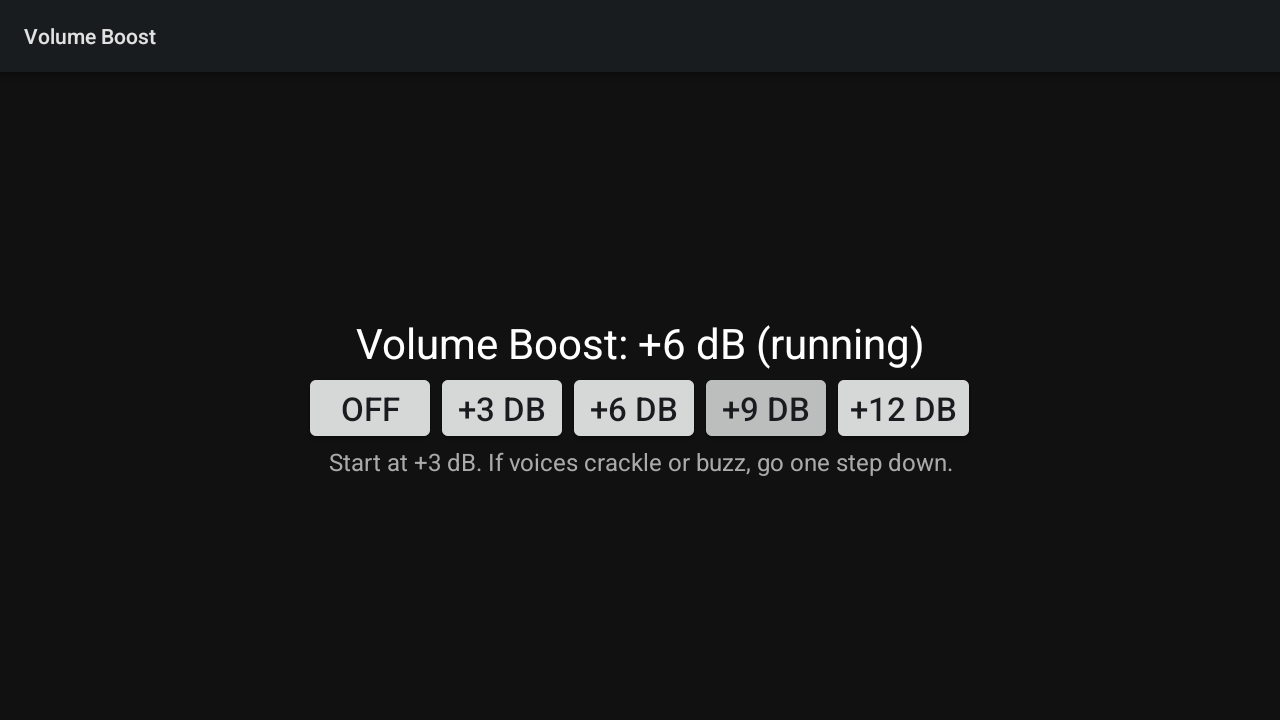
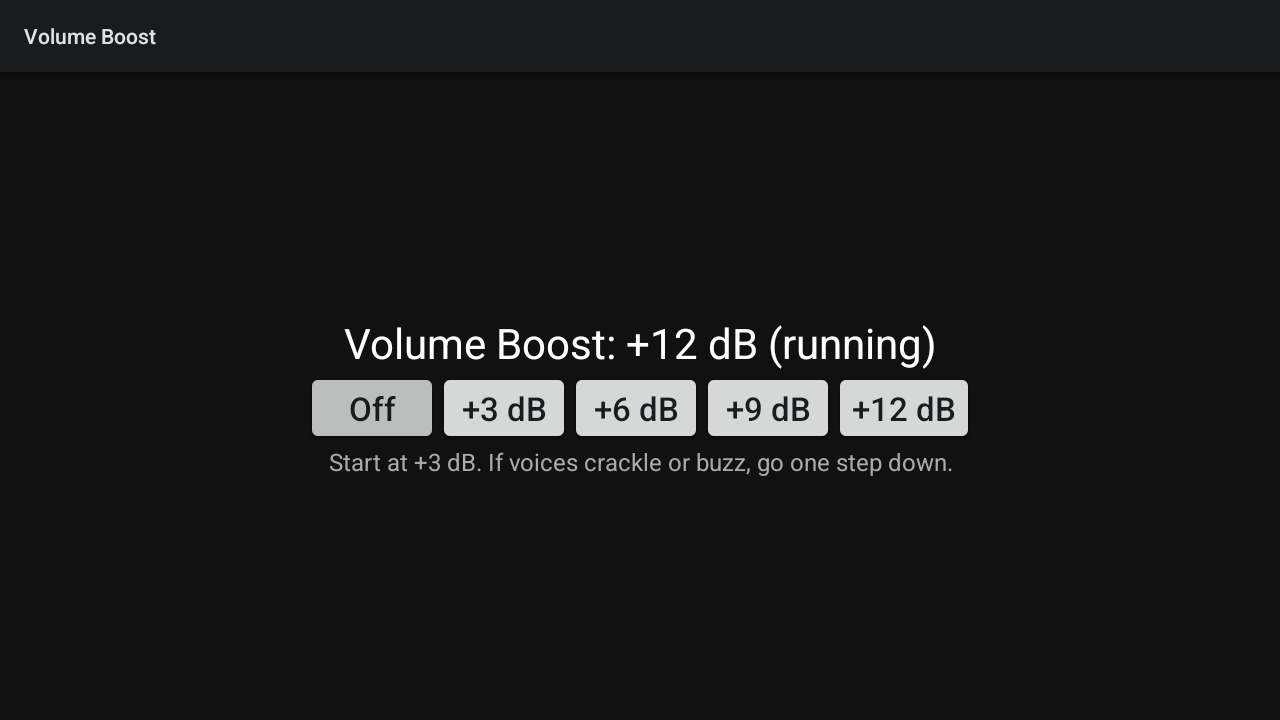
Show dB, not DB, on the level buttons (1.0.1)

Changed region(s): [[0.2188, 0.4583, 0.75, 0.6111]]

diff --git a/src/io/github/moazemad1/volumeboost/MainActivity.java b/src/io/github/moazemad1/volumeboost/MainActivity.java
@@ -30,6 +30,7 @@ public class MainActivity extends Activity {
             Button btn = new Button(this);
             btn.setText(db == 0 ? "Off" : "+" + db + " dB");
             btn.setTextSize(22);
+            btn.setAllCaps(false);   // "dB", not "DB"
             btn.setOnClickListener(v -> {
                 BoostService.apply(this, level);
                 status.postDelayed(this::show, 500);
